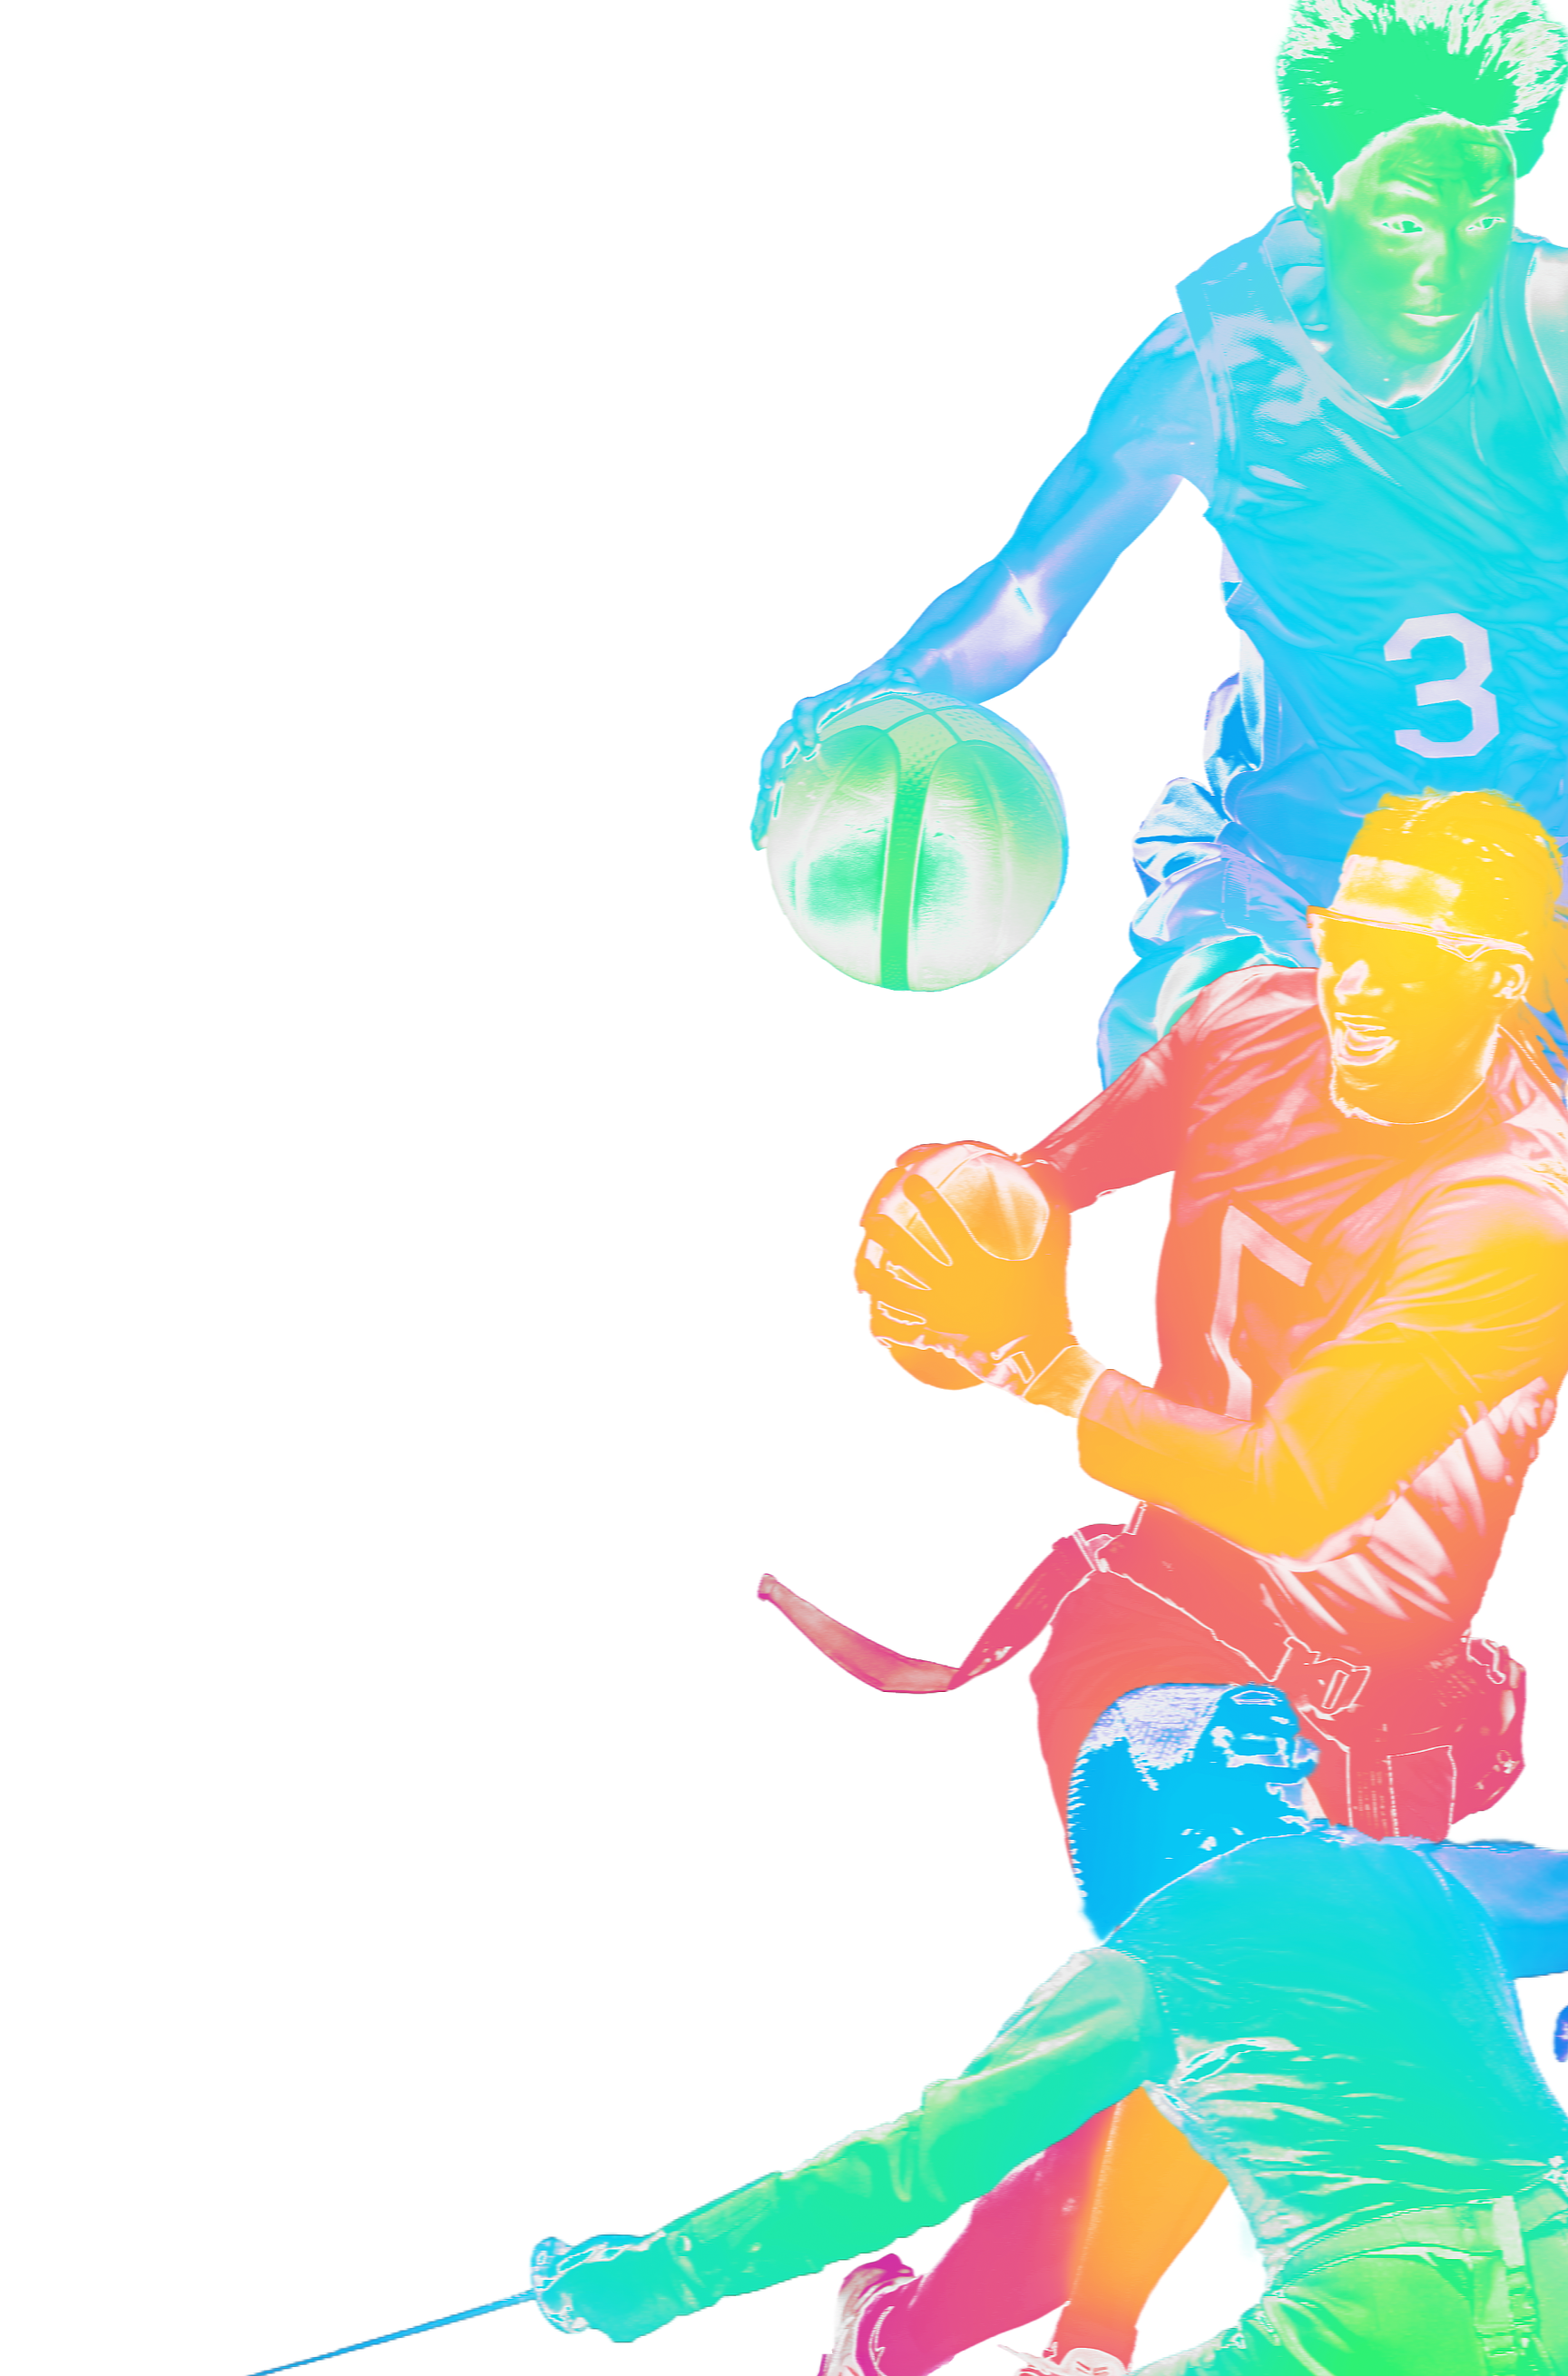
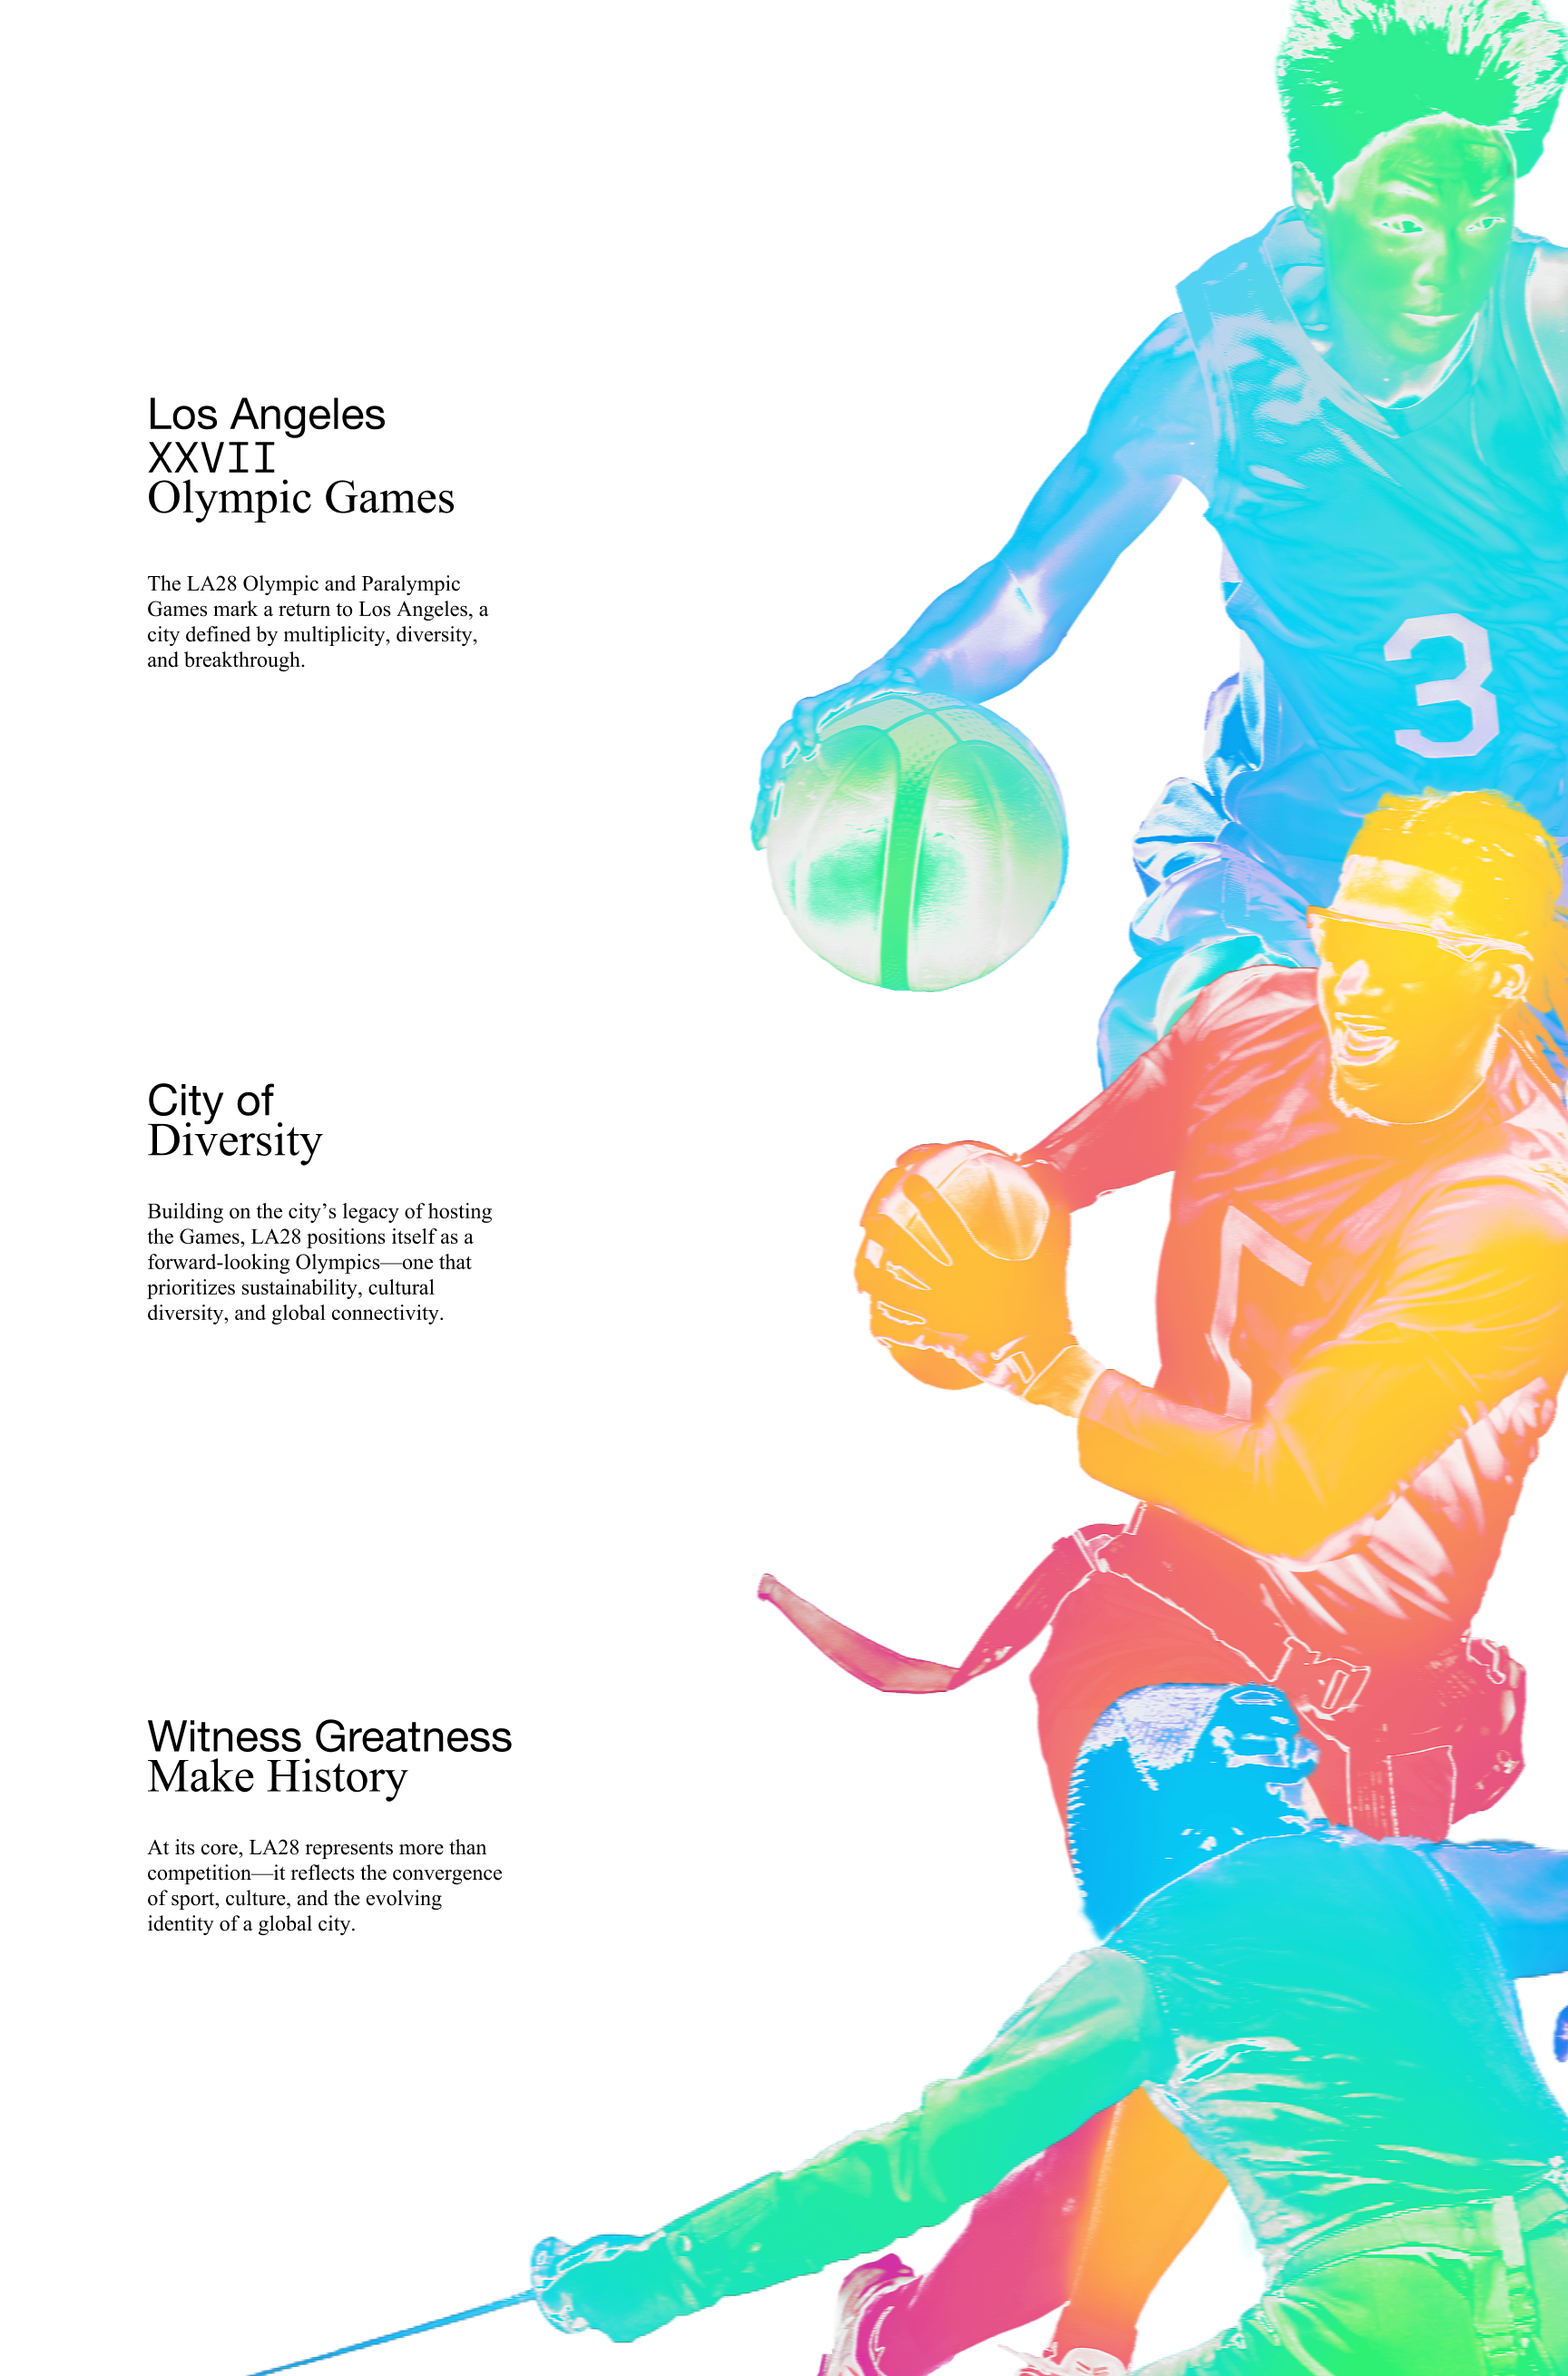
new

diff --git a/about.html b/about.html
@@ -27,20 +27,6 @@
 
   <!-- About Page -->
   <section class="about-page">
-    <div class="about-page-text">
-      <div class="about-block">
-        <h2>Los Angeles<br>XXVIII<br>Olympic Games</h2>
-        <p>The LA28 Olympic and Paralympic Games mark a return to Los Angeles, a city defined by multiplicity, diversity, and breakthrough.</p>
-      </div>
-      <div class="about-block">
-        <h2>City of<br>Diversity</h2>
-        <p>Building on the city's legacy of hosting the Games, LA28 positions itself as a forward-looking Olympics — one that prioritizes sustainability, cultural diversity, and global connectivity.</p>
-      </div>
-      <div class="about-block">
-        <h2>Witness Greatness<br>Make History</h2>
-        <p>At its core, LA28 represents more than competition — it reflects the convergence of sport, culture, and the evolving identity of a global city.</p>
-      </div>
-    </div>
   </section>
 
   <!-- Footer -->
@@ -52,7 +38,5 @@
       <img src="Footer%20SVGs/Socials.png" alt="Social Media">
     </div>
   </footer>
-
-  <script src="about.js"></script>
 </body>
 </html>

diff --git a/style.css b/style.css
@@ -334,7 +334,8 @@ body {
 
 .about-footer {
   position: relative;
-  margin-top: -120px;
+  margin-top: -140px;
+  z-index: 20;
 }
 
 /* About Page */
@@ -347,34 +348,3 @@ body {
   overflow: hidden;
 }
 
-.about-page-text {
-  position: relative;
-  width: 100%;
-  height: 100%;
-  display: flex;
-  flex-direction: column;
-  justify-content: space-between;
-  padding: 160px 100px;
-}
-
-.about-block {
-  max-width: 380px;
-  opacity: 0;
-  transform: translateY(40px);
-}
-
-.about-block h2 {
-  font-family: "Helvetica Neue", Helvetica, Arial, sans-serif;
-  font-size: 32px;
-  font-weight: 400;
-  line-height: 1.2;
-}
-
-.about-block p {
-  font-family: "Times New Roman", Times, serif;
-  font-size: 15px;
-  font-weight: 400;
-  line-height: 1.6;
-  margin-top: 20px;
-  color: #000;
-}
